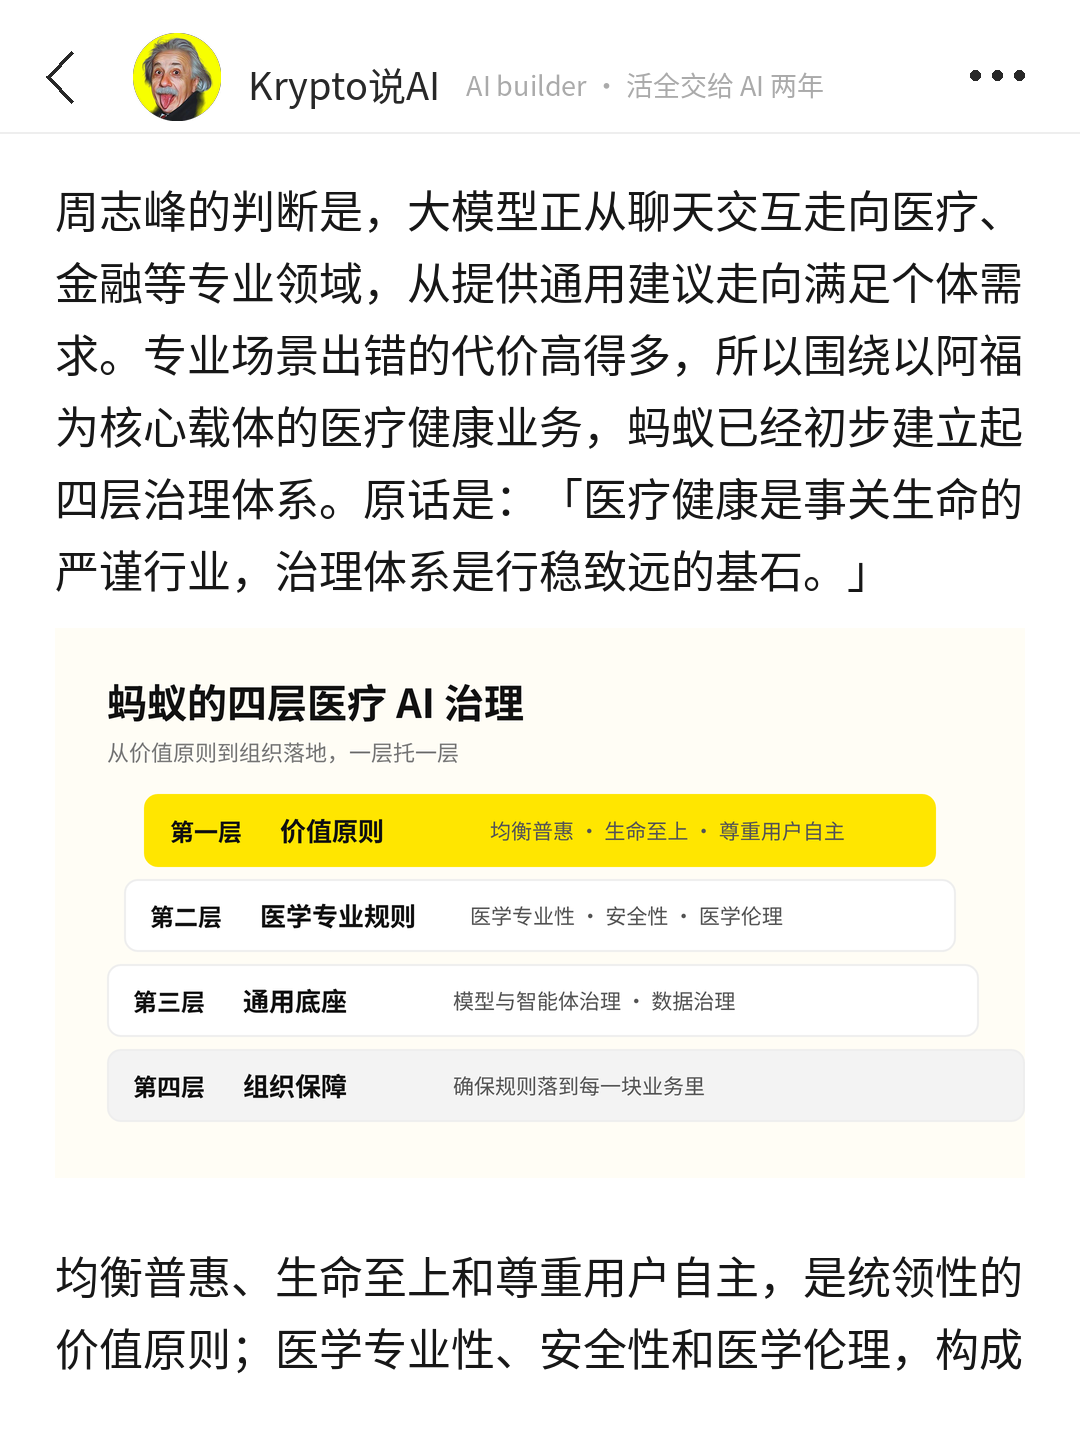
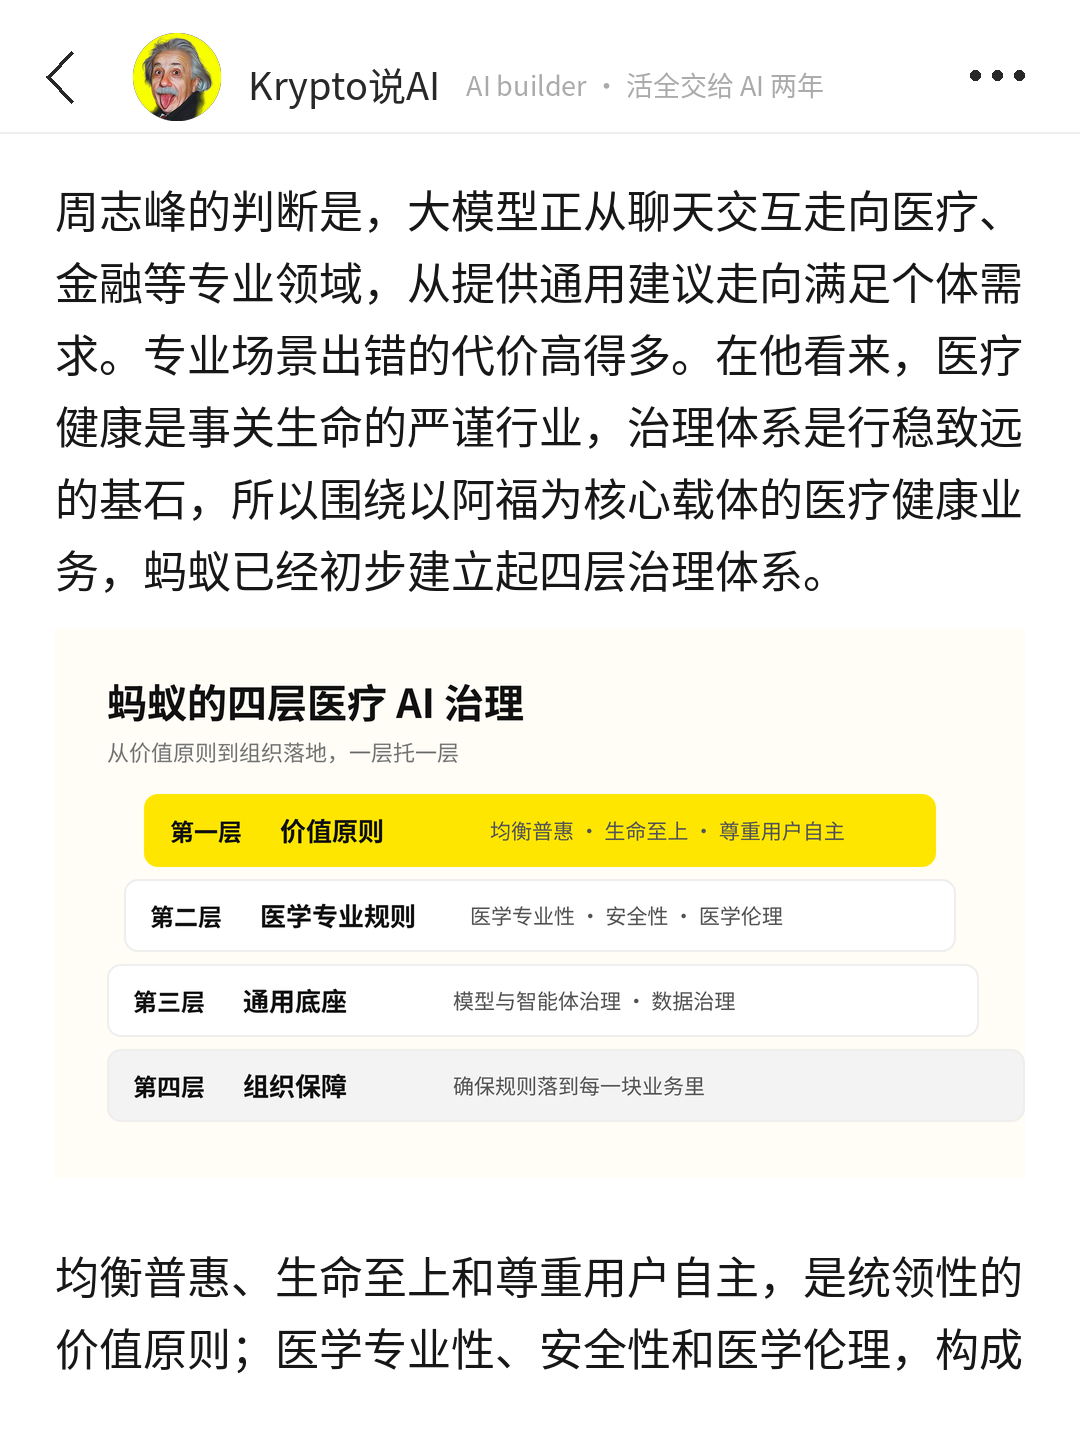
蚂蚁阿福稿：去掉「原话是」
Claude-Session: https://claude.ai/code/session_01NaeRTZQhhRGkfQC5bgkE17

Changed region(s): [[0.0306, 0.2188, 0.9472, 0.4062]]

diff --git a/发布/2026-11-04_ant-afu-wuzhen/meme-v2版/编辑用/draft.md b/发布/2026-11-04_ant-afu-wuzhen/meme-v2版/编辑用/draft.md
@@ -21,7 +21,7 @@ account: Krypto说AI
 
 今天乌镇峰会上，蚂蚁集团资深副总裁周志峰讲的，正是 AI 进入医疗这类专业场景之后该怎么治理，阿福就是他的观察入口。
 
-周志峰的判断是，大模型正从聊天交互走向医疗、金融等专业领域，从提供通用建议走向满足个体需求。专业场景出错的代价高得多，所以围绕以阿福为核心载体的医疗健康业务，蚂蚁已经初步建立起四层治理体系。原话是：「医疗健康是事关生命的严谨行业，治理体系是行稳致远的基石。」
+周志峰的判断是，大模型正从聊天交互走向医疗、金融等专业领域，从提供通用建议走向满足个体需求。专业场景出错的代价高得多。在他看来，医疗健康是事关生命的严谨行业，治理体系是行稳致远的基石，所以围绕以阿福为核心载体的医疗健康业务，蚂蚁已经初步建立起四层治理体系。
 
 ![](layers.png)
 
